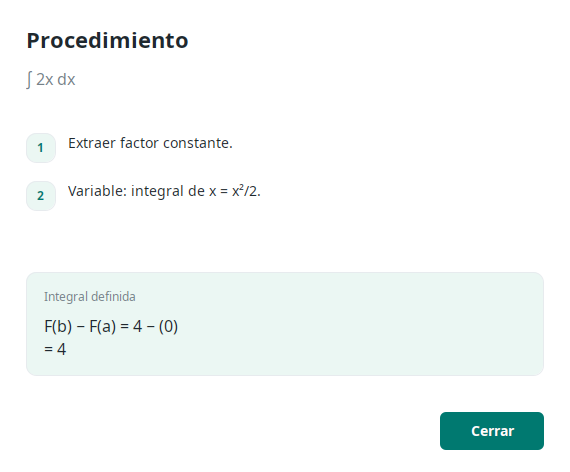
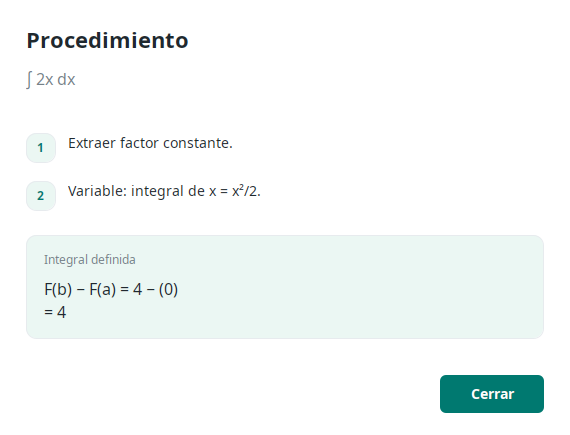
Conservar fracciones en la antiderivada simbolica

diff --git a/tests/PruebaPuente.java b/tests/PruebaPuente.java
@@ -23,6 +23,13 @@ public final class PruebaPuente {
         comprobar(Math.abs(visual.area()-0.5) < 1e-7, "Teclado visual");
         var limite = puente.resolver("sin(x)", "0", "π");
         comprobar(Math.abs(limite.integral()-2) < 1e-9, "Tecla π en límites");
+        var fraccion = puente.resolver("3x", "0", "1");
+        comprobar(fraccion.primitiva().equals("3/2*x^2"), "Coeficiente fraccionario simbólico");
+        comprobar(Math.abs(fraccion.integral()-1.5) < 1e-9, "Evaluación numérica separada");
+        var coeficiente = puente.resolver("(3/2)x", "0", "1");
+        comprobar(coeficiente.primitiva().equals("3/4*x^2"), "Entrada fraccionaria");
+        var decimal = puente.resolver("2.5x", "0", "1");
+        comprobar(decimal.primitiva().equals("5/4*x^2"), "Literal decimal en fracción");
         rechaza(() -> puente.resolver("1/x", "-1", "1"), "Polo interior");
         rechaza(() -> puente.resolver("halt(0)", "0", "1"), "Inyección");
         rechaza(() -> puente.resolver("x\nhalt", "0", "1"), "Salto de línea");
@@ -31,7 +38,7 @@ public final class PruebaPuente {
             PuenteProlog.interpretar("OK\nAREA\tNaN\n");
             throw new AssertionError("Se aceptó respuesta inválida");
         } catch (IOException esperado) { /* correcto */ }
-        System.out.println("Java ↔ SWI-Prolog: 16 comprobaciones correctas.");
+        System.out.println("Java ↔ SWI-Prolog: 20 comprobaciones correctas.");
     }
     private static void comprobar(boolean condicion, String nombre) {
         if (!condicion) throw new AssertionError(nombre);

diff --git a/tests/PruebaInterfaz.java b/tests/PruebaInterfaz.java
@@ -60,6 +60,14 @@ public final class PruebaInterfaz {
             });
             esperar(() -> dialogoProcedimiento()==null);
             SwingUtilities.invokeAndWait(() -> {
+                campo("expresion").setText("3x"); boton("calcular").doClick();
+            });
+            esperar(() -> primitiva().getText().startsWith("F(x) ="));
+            SwingUtilities.invokeAndWait(() -> {
+                comprobar(primitiva().getText().equals("F(x) = 3/2·x² + C"),"Fracción visible en antiderivada");
+                captura("docs/captura-fraccion.png");
+            });
+            SwingUtilities.invokeAndWait(() -> {
                 boton("ejemplos").doClick();
                 JPopupMenu popup=null;
                 for (MenuElement e:MenuSelectionManager.defaultManager().getSelectedPath()) if(e instanceof JPopupMenu p) popup=p;

diff --git a/README.md b/README.md
@@ -130,7 +130,9 @@ F = x^3/3.
 
 En `s/3`, `F` omite la constante de integración; la interfaz agrega `+ C`. La presentación simbólica se simplifica localmente, no se reduce a una forma algebraica canónica.
 
-Referencia técnica: [aritmética oficial de SWI-Prolog](https://www.swi-prolog.org/man/arith.html), para `is/2` y funciones trigonométricas/hiperbólicas.
+Los coeficientes racionales de la antiderivada se muestran como fracciones reducidas: `3x` produce `3/2*x^2 + C` y `5x^2` produce `5/3*x^3 + C`. La evaluación en los límites y el área siguen siendo resultados numéricos. Los literales decimales de entrada se racionalizan dentro de su error de representación; por ejemplo, `2.5x` produce `5/4*x^2 + C`. No se presentan aproximaciones de `pi`, `e` o funciones trascendentes como fracciones exactas. [Ejemplo en la interfaz](docs/captura-fraccion.png).
+
+Referencia técnica: [aritmética oficial de SWI-Prolog](https://www.swi-prolog.org/man/arith.html), para `is/2`, división racional y funciones trigonométricas/hiperbólicas; [conversión de literales con `rationalize`](https://www.swi-prolog.org/pldoc/man?function=rationalize%2F1).
 
 ## Pruebas
 
@@ -140,7 +142,7 @@ sh scripts/probar.sh
 
 Incluye PLUnit (reglas, derivación numérica de las primitivas de las 22 familias, ejemplo de clase 13, dominios, área, orientación y entradas maliciosas) y una prueba Java–Prolog real sin abrir la ventana. Compila Java con `-Xlint:all`.
 
-Verificado en este equipo con OpenJDK 17 y SWI-Prolog 10.1.18: **99 instancias PLUnit**, **16 comprobaciones Java–Prolog** y la prueba visual opcional (teclado, ejemplos, límites, errores y tamaño mínimo).
+Verificado en este equipo con OpenJDK 17 y SWI-Prolog 10.1.18: **113 instancias PLUnit**, **20 comprobaciones Java–Prolog** y la prueba visual opcional (teclado, ejemplos, fracciones en la antiderivada, límites, errores y tamaño mínimo).
 
 Prueba visual opcional (abre y cierra las ventanas, comprueba cálculo/error, centrado al redimensionar y procedimiento corto/largo, y actualiza las capturas de `docs/`):
 
